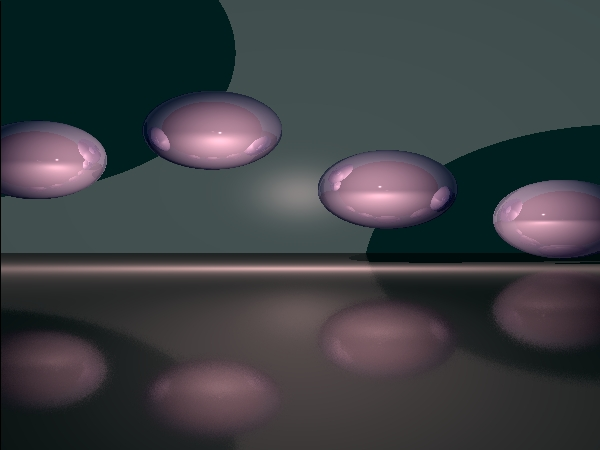
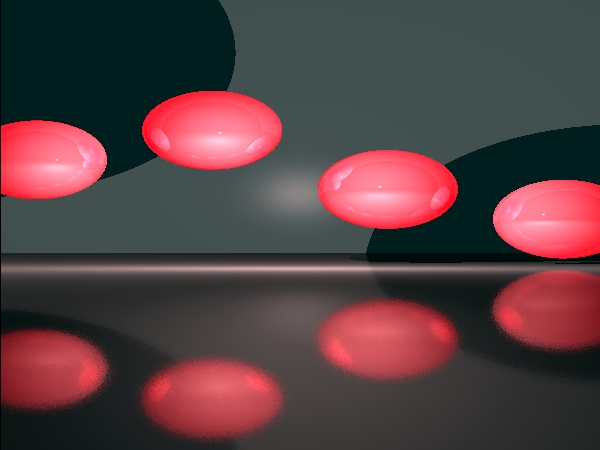
small fixes

diff --git a/MavoProject/src/unittests/MinitProject1Test.java b/MavoProject/src/unittests/MinitProject1Test.java
@@ -86,13 +86,13 @@ public class MinitProject1Test {
 		Plane plane2 = new Plane(new Color(0, 30, 30), new Material(0.5, 0.5, 1200), //
 				new Point3D(0, 20, 600), new Vector(0, 0, 1)); // background plane
 
-		Sphere sphere = new Sphere(new Color(0, 0, 20), new Material(0.5, 0.5, 1200, 0, 0.5), //
+		Sphere sphere = new Sphere(new Color(255, 0, 20), new Material(0.5, 0.5, 1200, 0, 0.5), //
 				20, new Point3D(75, -3, 140)); // sphere 1
-		Sphere sphere2 = new Sphere(new Color(0, 0, 20), new Material(0.5, 0.5, 1200,  0, 0.5), //
+		Sphere sphere2 = new Sphere(new Color(255, 0, 20), new Material(0.5, 0.5, 1200,  0, 0.5), //
 				20, new Point3D(25, -18, 140)); // sphere 2
-		Sphere sphere3 = new Sphere(new Color(0, 0, 20), new Material(0.5, 0.5, 1200,  0, 0.5), //
+		Sphere sphere3 = new Sphere(new Color(255, 0, 20), new Material(0.5, 0.5, 1200,  0, 0.5), //
 				20, new Point3D(-75, -33, 140)); // sphere 3
-		Sphere sphere4 = new Sphere(new Color(0, 0, 20), new Material(0.5, 0.5, 1200,  0, 0.5), //
+		Sphere sphere4 = new Sphere(new Color(255, 0, 20), new Material(0.5, 0.5, 1200,  0, 0.5), //
 				20, new Point3D(-25, -48, 140)); // sphere 4
 
 		scene.addIntersectable(plane, plane2 //
@@ -136,15 +136,13 @@ public class MinitProject1Test {
 				new Vector(0, 1, 0)); // ground Plane plane2
 		Plane plane2 = new Plane(new Color(0, 30, 30), new Material(0.5, 0.5, 1200), //
 				new Point3D(0, 20, 600), new Vector(0, 0, 1)); // background plane
-
-		Sphere sphere = new Sphere(new Color(0, 0, 20), new Material(0.5, 0.5, 1200, 0, 0.5), //
-				20, new Point3D(75, -3, 140)); // sphere 1
-		Sphere sphere2 = new Sphere(new Color(0, 0, 20), new Material(0.5, 0.5, 1200, 0, 0.5), //
-				20, new Point3D(25, -3, 140)); // sphere 2
-		Sphere sphere3 = new Sphere(new Color(0, 0, 20), new Material(0.5, 0.5, 1200,0, 0.5), //
-				20, new Point3D(-75, -3, 140)); // sphere 3
-		Sphere sphere4 = new Sphere(new Color(0, 0, 20), new Material(0.5, 0.5, 1200,0, 0.5), //
-				20, new Point3D(-25, -3, 140)); // sphere 4
+		Material shpere_mat =  new Material(0.5, 0.5, 1200, 0, 0.5);
+		Color shpere_color =new Color(0, 0, 20);
+		double shpere_radius = 20;
+		Sphere sphere = new Sphere(shpere_color,shpere_mat,	shpere_radius, new Point3D(75, -3, 140)); // sphere 1
+		Sphere sphere2 = new Sphere(shpere_color, shpere_mat, shpere_radius, new Point3D(25, -3, 140)); // sphere 2
+		Sphere sphere3 = new Sphere(shpere_color, shpere_mat, shpere_radius, new Point3D(-75, -3, 140)); // sphere 3
+		Sphere sphere4 = new Sphere(shpere_color, shpere_mat, shpere_radius, new Point3D(-25, -3, 140)); // sphere 4
 		// window for sphere 1
 		Polygon square1 = new Polygon(new Color(0, 0, 0), new Material(0.1, 0.1, 300, 0.8, 0, 0, 0.1), //
 				new Point3D(75, 20, 100), new Point3D(36, 20, 100), new Point3D(36, -40, 100),
